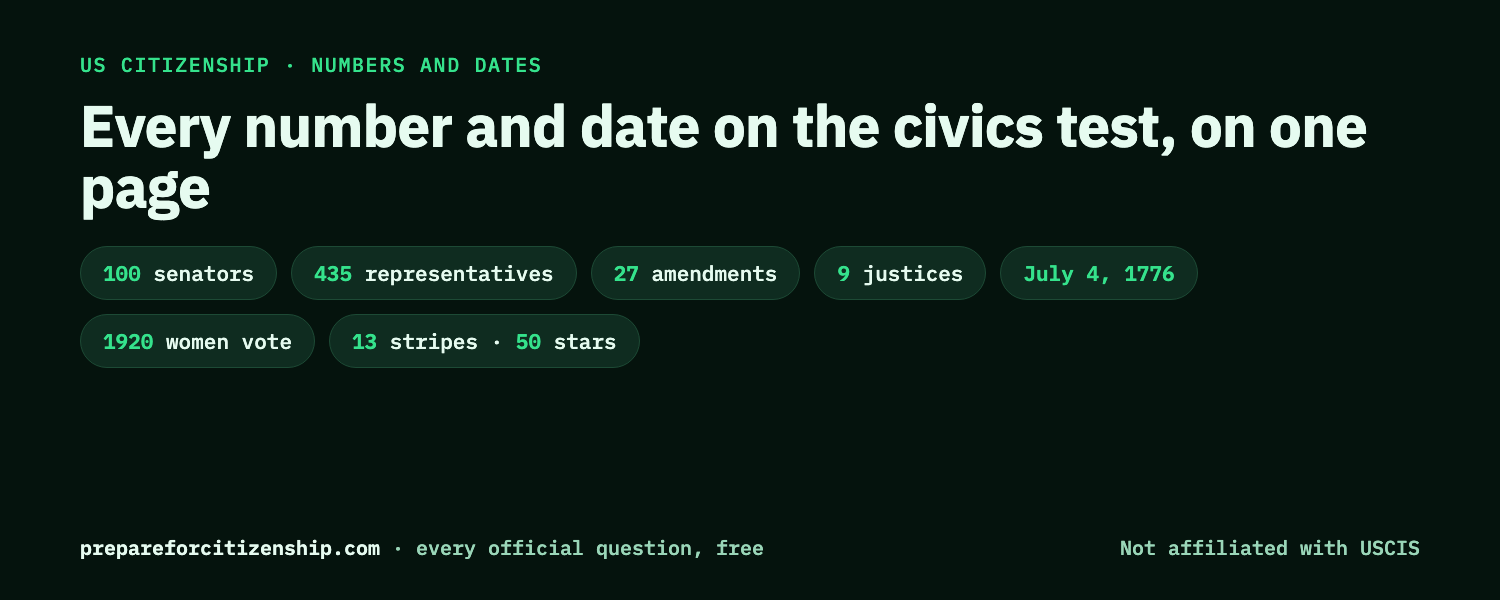
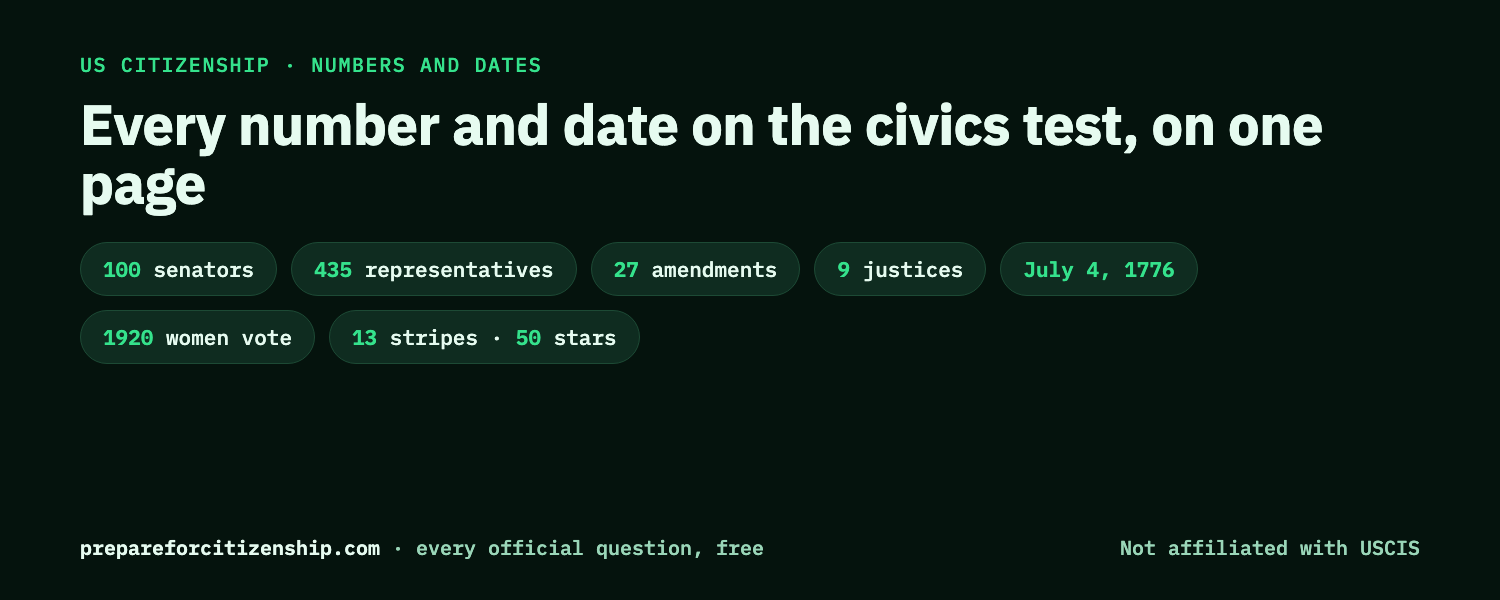
Guides index: title-free card thumbnails so cards stop reading as duplicates; which-test leads its day; 5:2 X covers for all 13

diff --git a/site/public/guides.html b/site/public/guides.html
@@ -60,6 +60,11 @@
   },
   {
    "@type": "Article",
+   "headline": "Which US civics test will I take, the 2008 or the 2025 version?",
+   "url": "https://prepareforcitizenship.com/which-test"
+  },
+  {
+   "@type": "Article",
    "headline": "What actually happens in the naturalization interview",
    "url": "https://prepareforcitizenship.com/guides/naturalization-interview"
   },
@@ -92,11 +97,6 @@
    "@type": "Article",
    "headline": "The English test is smaller than you fear: one sentence read, one sentence written",
    "url": "https://prepareforcitizenship.com/guides/english-test"
-  },
-  {
-   "@type": "Article",
-   "headline": "Which US civics test will I take, the 2008 or the 2025 version?",
-   "url": "https://prepareforcitizenship.com/which-test"
   }
  ]
 }
@@ -123,7 +123,7 @@
   <p class="intro">Which version you take, what the interview is like, how the English test is scored, what to answer for your state, and who is exempt. Every guide is checked against USCIS's own pages, and the date it was last checked is on the page. None of it is legal advice.</p>
   <div class="guide-grid">
       <a href="/guides/oath-ceremony" class="guide-card">
-        <img src="/guides/img/oath-ceremony.png" alt="" width="1200" height="675" loading="lazy" class="guide-card-img">
+        <img src="/guides/img/card/oath-ceremony.png" alt="" width="1200" height="675" loading="lazy" class="guide-card-img">
         <div class="guide-card-body">
           <span class="guide-category">The oath ceremony</span>
           <h2 class="guide-title">You passed. Here is what happens at the oath ceremony.</h2>
@@ -132,7 +132,7 @@
         </div>
       </a>
       <a href="/guides/if-you-fail" class="guide-card">
-        <img src="/guides/img/if-you-fail.png" alt="" width="1200" height="675" loading="lazy" class="guide-card-img">
+        <img src="/guides/img/card/if-you-fail.png" alt="" width="1200" height="675" loading="lazy" class="guide-card-img">
         <div class="guide-card-body">
           <span class="guide-category">If you fail</span>
           <h2 class="guide-title">Failed part of the test? Exactly what happens next.</h2>
@@ -141,7 +141,7 @@
         </div>
       </a>
       <a href="/guides/numbers-and-dates" class="guide-card">
-        <img src="/guides/img/numbers-and-dates.png" alt="" width="1200" height="675" loading="lazy" class="guide-card-img">
+        <img src="/guides/img/card/numbers-and-dates.png" alt="" width="1200" height="675" loading="lazy" class="guide-card-img">
         <div class="guide-card-body">
           <span class="guide-category">Numbers and dates</span>
           <h2 class="guide-title">Every number and date on the civics test, on one page</h2>
@@ -150,7 +150,7 @@
         </div>
       </a>
       <a href="/guides/sixty-five-twenty-questions" class="guide-card">
-        <img src="/guides/img/sixty-five-twenty-questions.png" alt="" width="1200" height="675" loading="lazy" class="guide-card-img">
+        <img src="/guides/img/card/sixty-five-twenty-questions.png" alt="" width="1200" height="675" loading="lazy" class="guide-card-img">
         <div class="guide-card-body">
           <span class="guide-category">The 65/20 test</span>
           <h2 class="guide-title">The 20 questions on the 65/20 civics test, and how the shorter test works</h2>
@@ -159,7 +159,7 @@
         </div>
       </a>
       <a href="/guides/why-questions" class="guide-card">
-        <img src="/guides/img/why-questions.png" alt="" width="1200" height="675" loading="lazy" class="guide-card-img">
+        <img src="/guides/img/card/why-questions.png" alt="" width="1200" height="675" loading="lazy" class="guide-card-img">
         <div class="guide-card-body">
           <span class="guide-category">The why questions</span>
           <h2 class="guide-title">The 2025 test asks why. Here are all 17 why-questions and one answer for each.</h2>
@@ -167,8 +167,17 @@
           <span class="guide-more">Read the guide &rarr;</span>
         </div>
       </a>
+      <a href="/which-test" class="guide-card">
+        <img src="/guides/img/card/which-test.png" alt="" width="1200" height="675" loading="lazy" class="guide-card-img">
+        <div class="guide-card-body">
+          <span class="guide-category">The civics test</span>
+          <h2 class="guide-title">Which US civics test will I take, the 2008 or the 2025 version?</h2>
+          <p class="guide-excerpt">It depends on the date USCIS received your N-400, not on your interview date. The two versions side by side, with the pass rules for each.</p>
+          <span class="guide-more">Read the guide &rarr;</span>
+        </div>
+      </a>
       <a href="/guides/naturalization-interview" class="guide-card">
-        <img src="/guides/img/naturalization-interview.png" alt="" width="1200" height="675" loading="lazy" class="guide-card-img">
+        <img src="/guides/img/card/naturalization-interview.png" alt="" width="1200" height="675" loading="lazy" class="guide-card-img">
         <div class="guide-card-body">
           <span class="guide-category">The interview</span>
           <h2 class="guide-title">What actually happens in the naturalization interview</h2>
@@ -177,7 +186,7 @@
         </div>
       </a>
       <a href="/guides/state-questions" class="guide-card">
-        <img src="/guides/img/state-questions.png" alt="" width="1200" height="675" loading="lazy" class="guide-card-img">
+        <img src="/guides/img/card/state-questions.png" alt="" width="1200" height="675" loading="lazy" class="guide-card-img">
         <div class="guide-card-body">
           <span class="guide-category">State answers</span>
           <h2 class="guide-title">Four civics answers depend on where you live, and they change on election night</h2>
@@ -186,7 +195,7 @@
         </div>
       </a>
       <a href="/guides/age-rules" class="guide-card">
-        <img src="/guides/img/age-rules.png" alt="" width="1200" height="675" loading="lazy" class="guide-card-img">
+        <img src="/guides/img/card/age-rules.png" alt="" width="1200" height="675" loading="lazy" class="guide-card-img">
         <div class="guide-card-body">
           <span class="guide-category">Exceptions</span>
           <h2 class="guide-title">Older applicants take a different test. Here are the three age rules.</h2>
@@ -195,7 +204,7 @@
         </div>
       </a>
       <a href="/guides/how-to-study" class="guide-card">
-        <img src="/guides/img/how-to-study.png" alt="" width="1200" height="675" loading="lazy" class="guide-card-img">
+        <img src="/guides/img/card/how-to-study.png" alt="" width="1200" height="675" loading="lazy" class="guide-card-img">
         <div class="guide-card-body">
           <span class="guide-category">How to study</span>
           <h2 class="guide-title">How to study for the civics test in the time you actually have</h2>
@@ -204,7 +213,7 @@
         </div>
       </a>
       <a href="/guides/public-domain" class="guide-card">
-        <img src="/guides/img/public-domain.png" alt="" width="1200" height="675" loading="lazy" class="guide-card-img">
+        <img src="/guides/img/card/public-domain.png" alt="" width="1200" height="675" loading="lazy" class="guide-card-img">
         <div class="guide-card-body">
           <span class="guide-category">The questions</span>
           <h2 class="guide-title">The civics questions are public domain. Nobody should be renting them to you by the week.</h2>
@@ -213,7 +222,7 @@
         </div>
       </a>
       <a href="/guides/one-answer" class="guide-card">
-        <img src="/guides/img/one-answer.png" alt="" width="1200" height="675" loading="lazy" class="guide-card-img">
+        <img src="/guides/img/card/one-answer.png" alt="" width="1200" height="675" loading="lazy" class="guide-card-img">
         <div class="guide-card-body">
           <span class="guide-category">The answer key</span>
           <h2 class="guide-title">You only need one answer. 41 of the 128 questions accept four or more.</h2>
@@ -222,20 +231,11 @@
         </div>
       </a>
       <a href="/guides/english-test" class="guide-card">
-        <img src="/guides/img/english-test.png" alt="" width="1200" height="675" loading="lazy" class="guide-card-img">
+        <img src="/guides/img/card/english-test.png" alt="" width="1200" height="675" loading="lazy" class="guide-card-img">
         <div class="guide-card-body">
           <span class="guide-category">The English test</span>
           <h2 class="guide-title">The English test is smaller than you fear: one sentence read, one sentence written</h2>
           <p class="guide-excerpt">Exactly what the reading, writing and speaking parts ask, how strictly USCIS scores them, and who is exempt.</p>
-          <span class="guide-more">Read the guide &rarr;</span>
-        </div>
-      </a>
-      <a href="/which-test" class="guide-card">
-        <img src="/guides/img/which-test.png" alt="" width="1200" height="675" loading="lazy" class="guide-card-img">
-        <div class="guide-card-body">
-          <span class="guide-category">The civics test</span>
-          <h2 class="guide-title">Which US civics test will I take, the 2008 or the 2025 version?</h2>
-          <p class="guide-excerpt">It depends on the date USCIS received your N-400, not on your interview date. The two versions side by side, with the pass rules for each.</p>
           <span class="guide-more">Read the guide &rarr;</span>
         </div>
       </a>

diff --git a/tools/build-guides.py b/tools/build-guides.py
@@ -100,7 +100,7 @@ WHICH_TEST_CARD = {
     "title": "Which US civics test will I take, the 2008 or the 2025 version?",
     "excerpt": "It depends on the date USCIS received your N-400, not on your interview date. "
                "The two versions side by side, with the pass rules for each.",
-    "image": "/guides/img/which-test.png",
+    "image": "/guides/img/card/which-test.png",
 }
 
 GUIDES: list[dict] = [
@@ -1246,8 +1246,14 @@ def render_index() -> str:
     ordered = sorted(GUIDES, key=lambda x: x.get("published_iso", CHECKED_ISO), reverse=True)
     cards = [{
         "href": f"/guides/{g['slug']}", "category": g["category"], "title": g["title"],
-        "excerpt": g["excerpt"], "image": f"/guides/img/{g['slug']}.png",
-    } for g in ordered] + [WHICH_TEST_CARD]
+        "excerpt": g["excerpt"], "image": f"/guides/img/card/{g['slug']}.png",
+    } for g in ordered]
+    # which-test is the most-searched page, so it leads its publication day rather than
+    # trailing the list; the cards carry title-free thumbnails (img/card/) because the
+    # full hero repeats the card's own title, which read as a duplicate on the index.
+    first_old = next(i for i, c in enumerate(cards) if c["href"].endswith(tuple(
+        g["slug"] for g in GUIDES if g.get("published_iso", CHECKED_ISO) == CHECKED_ISO)))
+    cards.insert(first_old, WHICH_TEST_CARD)
     ld = [{
         "@context": "https://schema.org",
         "@type": "CollectionPage",
